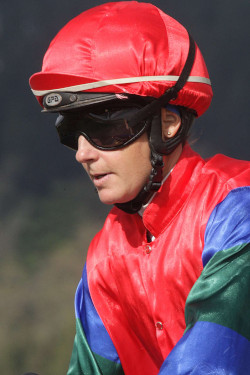
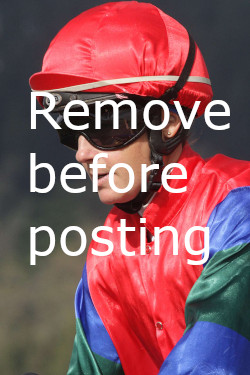
Updates test images
removes Test Image.png
Updates Test Image.xcf/jpg to make it more obious that they need to be removed later.

diff --git a/Index.php b/Index.php
@@ -25,7 +25,7 @@
             <div class="aboutMe-Image">
                 <center>
                     <p>
-                        <img src="Images/Test Image.png" alt="TEST IMAGE">
+                        <img src="Images/Test Image.jpg" alt="TEST IMAGE">
                     </p>
                 </center>
             </div>
